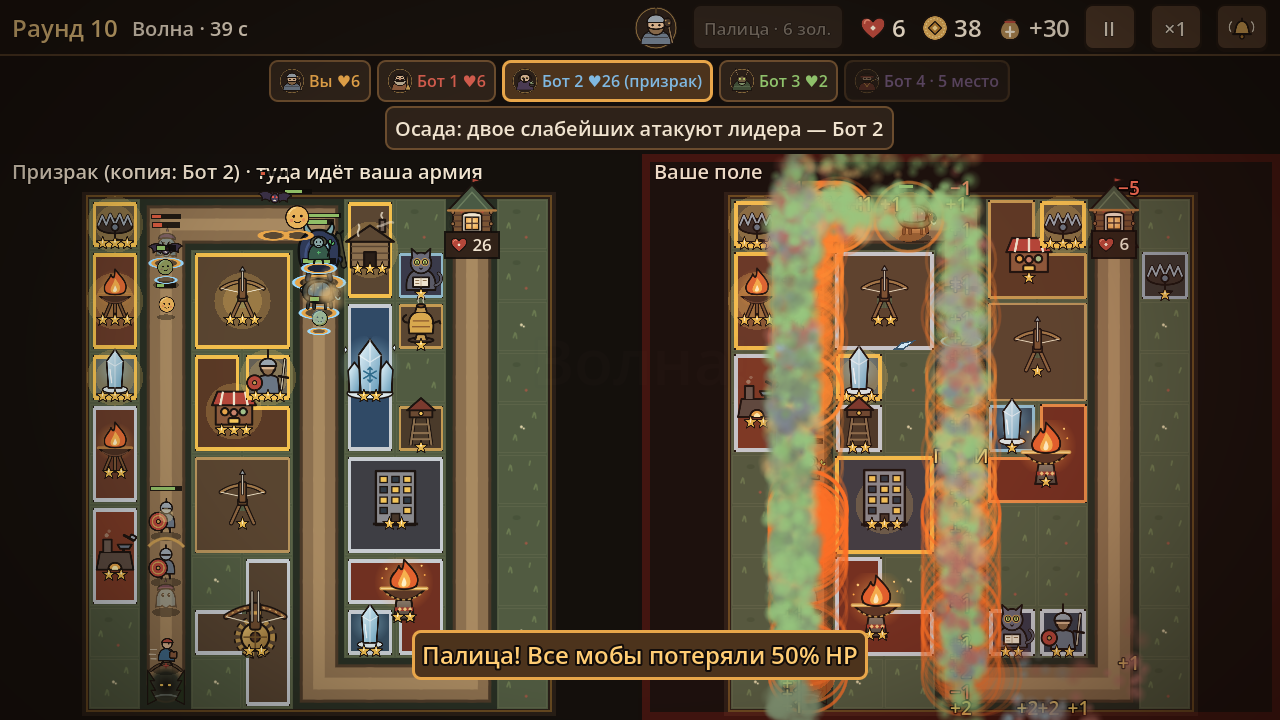
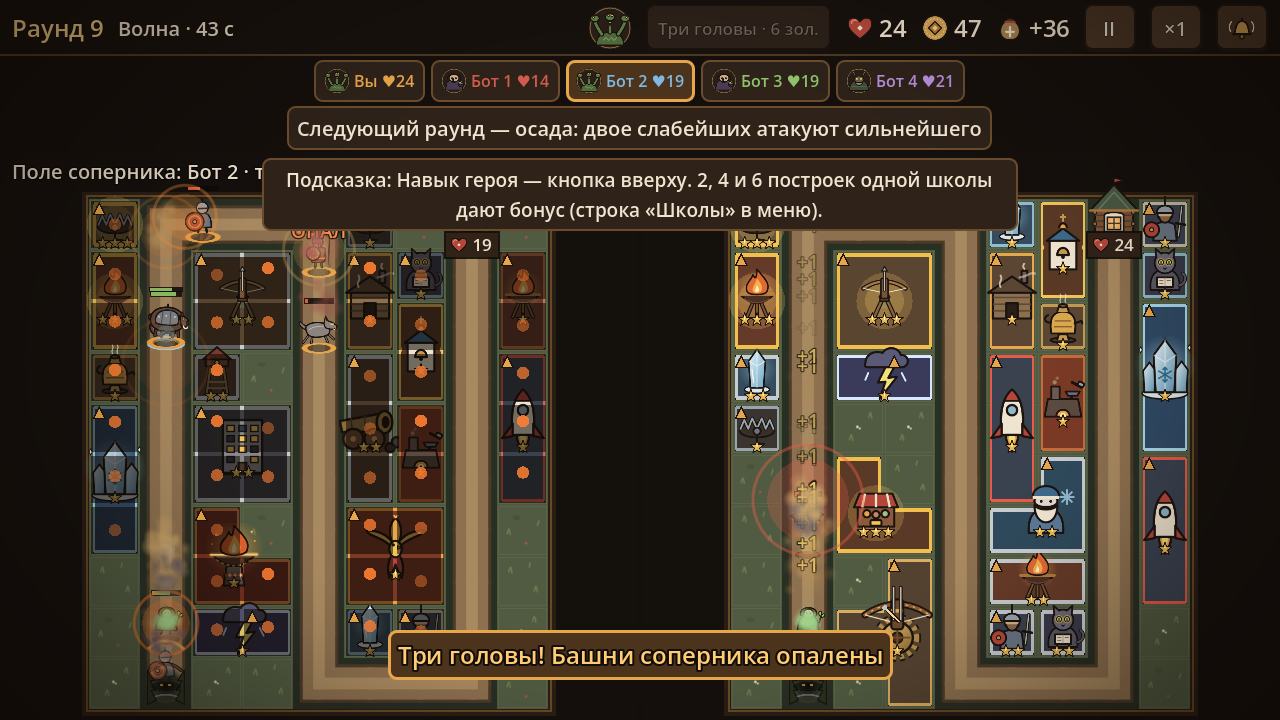
Презентация: кадр волны с навыком Змея

diff --git a/docs/presentation/index.html b/docs/presentation/index.html
@@ -342,7 +342,7 @@ figcaption { color:var(--muted); font-size:17px; margin-top:6px; }
 <circle cx="110" cy="38" r="8" fill="#6a7684" stroke="#1c1410" stroke-width="3.5"/>
 </svg>
 <h3>Разбойник</h3><p>HP 60</p><p>Быстрый; прорвался — хозяину армии +3 золота. Только от навыка Соловья.</p></div></div></section>
-<section><h2>Игра на экране</h2><figure><img src="shot_tiers.png" alt=""><figcaption>Магазин 4-го уровня: постройки тиров 3–4; золотой уголок «▲» — постройку усиливают соседи или школа; строка «Школы»; подсказка новичку</figcaption></figure><figure><img src="shot_buildings.png" alt=""><figcaption>Подготовка: самовар, кузница, капкан, панелька рядом с самострелами и жаровнями; тост — навык бота-соперника</figcaption></figure><figure><img src="shot_gift.png" alt=""><figcaption>«Тройка!»: выбор подарка, подарок в золотой рамке (перетащить на поле бесплатно), подсказка новичку сверху</figcaption></figure><figure><img src="shot_wave.png" alt=""><figcaption>Волна: слева бой на поле призрака (колобки, нетопыри, витязи), справа — «Палица» Ильи Муромца</figcaption></figure><figure><img src="shot_portrait_prep.png" alt=""><figcaption>Вертикальный экран: портрет героя и кнопка навыка вверху</figcaption></figure></section>
+<section><h2>Игра на экране</h2><figure><img src="shot_tiers.png" alt=""><figcaption>Магазин 4-го уровня: постройки тиров 3–4; золотой уголок «▲» — постройку усиливают соседи или школа; строка «Школы»; подсказка новичку</figcaption></figure><figure><img src="shot_buildings.png" alt=""><figcaption>Подготовка: самовар, кузница, капкан, панелька рядом с самострелами и жаровнями; тост — навык бота-соперника</figcaption></figure><figure><img src="shot_gift.png" alt=""><figcaption>«Тройка!»: выбор подарка, подарок в золотой рамке (перетащить на поле бесплатно), подсказка новичку сверху</figcaption></figure><figure><img src="shot_wave.png" alt=""><figcaption>Волна, 9-й раунд: навык Змея Горыныча «Три головы» — башни соперника (слева) опалены и молчат 7 секунд, туда идёт ваша армия</figcaption></figure><figure><img src="shot_portrait_prep.png" alt=""><figcaption>Вертикальный экран: портрет героя и кнопка навыка вверху</figcaption></figure></section>
 <section><h2>Баланс: доля побед героев</h2><p class="lead">200 матчей ботов на 5 игроков, герой у бота — случайный из трёх (11 героев). Цель — каждый 10–30% (честная доля — 20%). Длина матча: медиана 15 раундов (цель 12–16).</p><div class="bar"><span>Баба-Яга</span><i style="width:93%"></i><b>31%</b></div><div class="bar"><span>Леший</span><i style="width:81%"></i><b>27%</b></div><div class="bar"><span>Домовой</span><i style="width:66%"></i><b>22%</b></div><div class="bar"><span>Скоморох</span><i style="width:63%"></i><b>21%</b></div><div class="bar"><span>Соловей-Разбойник</span><i style="width:57%"></i><b>19%</b></div><div class="bar"><span>Илья Муромец</span><i style="width:54%"></i><b>18%</b></div><div class="bar"><span>Кощей Бессмертный</span><i style="width:54%"></i><b>18%</b></div><div class="bar"><span>Бабушка у подъезда</span><i style="width:54%"></i><b>18%</b></div><div class="bar"><span>Космонавт</span><i style="width:51%"></i><b>17%</b></div><div class="bar"><span>Змей Горыныч</span><i style="width:48%"></i><b>16%</b></div><div class="bar"><span>Василиса Премудрая</span><i style="width:45%"></i><b>15%</b></div></section>
 <section><h2>Что проверить руками</h2><ul><li>Выбор героя: понятны ли карточки, хватает ли 30 секунд</li><li>Кнопка навыка вверху: видно ли цену и когда её можно нажать (подсказка при наведении)</li><li>Соседство: выделите кузницу или самовар — золотые линии к соседям; бонусы написаны в меню</li><li>Новые мобы: виден ли нетопырь (летает выше), невидимка (полупрозрачная), щит у витязя</li><li>Темп: ранние раунды теперь жёстче (≈5 HP за раунд у ботов) — так ли ощущается вживую</li><li>Тройка: слейте 4 одинаковые постройки — появится выбор подарка; перетащите подарок на поле</li><li>Школы: строка «Школы» в меню — понятно ли, сколько осталось до бонуса</li></ul></section>
 <section><h2>Что предлагаю дальше</h2><ul><li>Ранние раунды мягче (сейчас ≈5 HP за раунд у ботов в 1–3 раундах)</li><li>Боты умнее: продавать, переставлять, жать навыки по ситуации — баланс героев станет точнее</li><li>Живые матчи автора → правка героев по логам (сводка по героям уже есть в analyze_logs.py)</li><li>Звуки и анимации навыков героев</li></ul></section>
